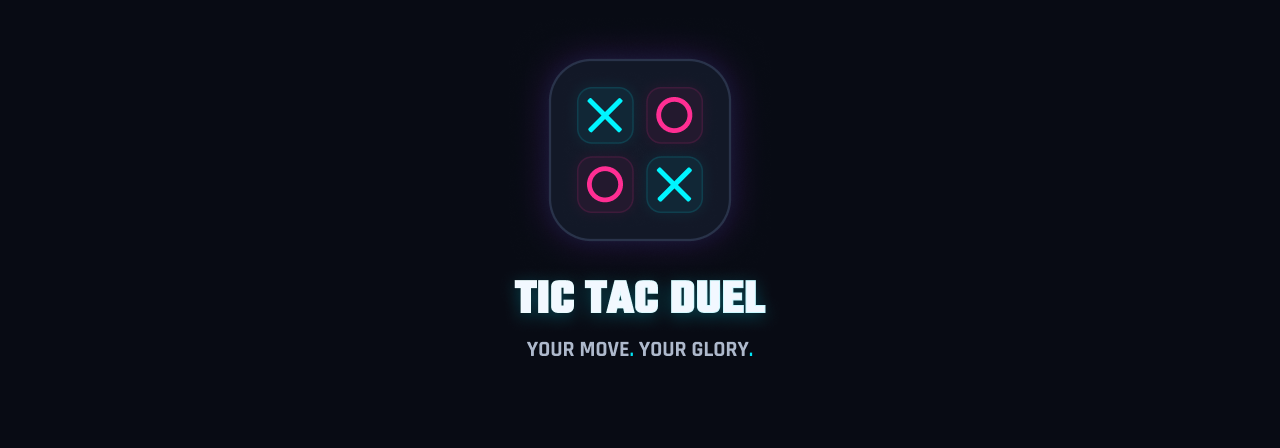
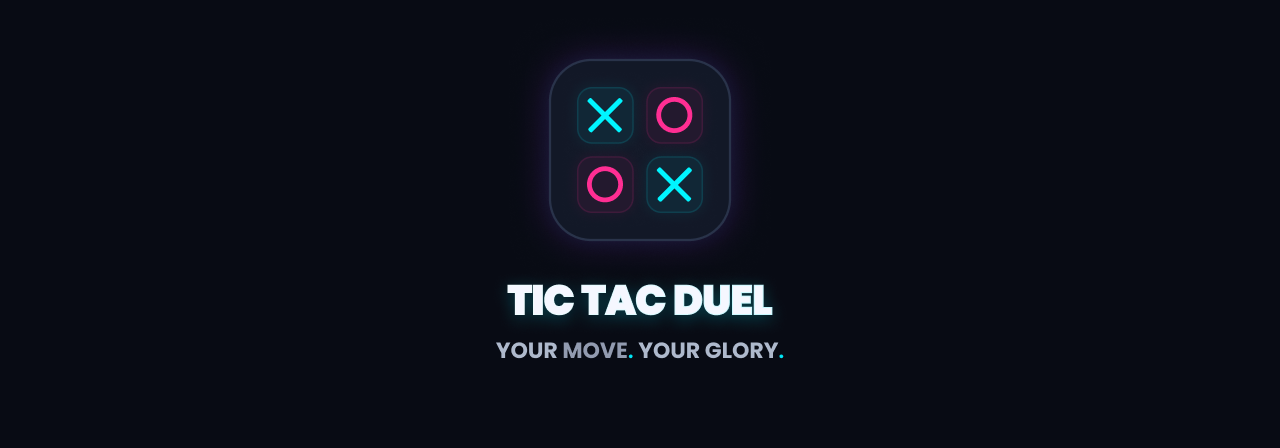
Enhance responsive layouts and update animations across home and splash screens
- Wrap text buttons and hint text in `Flexible` widgets across home actions, home screen, and join room hint widgets to improve responsive layout handling.
- Add entrance fade, rotation, and scale animations to `AppLogoWidget` in `HomeScreen` and `SplashScreen`.
- Standardize animation delay constants and update progress indicator styling in `SplashScreen`.
- Center-align app title and slogan texts in `HomeScreen`.
- Comment out automatic navigation delay in `SplashScreen`.

Changed region(s): [[0.375, 0.625, 0.625, 0.7188], [0.375, 0.75, 0.625, 0.8125]]

diff --git a/lib/features/home/home_screen.dart b/lib/features/home/home_screen.dart
@@ -16,17 +16,21 @@ class HomeScreen extends ConsumerWidget {
                 mainAxisAlignment: MainAxisAlignment.spaceBetween,
                 spacing: Dimens.twelve,
                 children: [
-                  NeonTextButtonWidget.icon(
-                    icon: Icons.settings_rounded,
-                    label: 'Settings',
-                    onPressed: navigation.pushSettings,
-                    isSmall: true,
+                  Flexible(
+                    child: NeonTextButtonWidget.icon(
+                      icon: Icons.settings_rounded,
+                      label: 'Settings',
+                      onPressed: navigation.pushSettings,
+                      isSmall: true,
+                    ),
                   ),
-                  NeonTextButtonWidget.icon(
-                    icon: Icons.help_outline_rounded,
-                    label: 'Help',
-                    onPressed: navigation.pushHelp,
-                    isSmall: true,
+                  Flexible(
+                    child: NeonTextButtonWidget.icon(
+                      icon: Icons.help_outline_rounded,
+                      label: 'Help',
+                      onPressed: navigation.pushHelp,
+                      isSmall: true,
+                    ),
                   ),
                 ],
               )
@@ -49,36 +53,49 @@ class HomeScreen extends ConsumerWidget {
           Column(
             spacing: Dimens.twentyTwo,
             children: [
-              const AppLogoWidget(),
+              const AppLogoWidget().animate()
+                  .fadeIn(duration: AnimationConstants.medium)
+                  .rotate(
+                begin: AnimationConstants.logoEntranceRotation,
+                end: AnimationConstants.logoRestingRotation,
+                duration: AnimationConstants.medium,
+                curve: AnimationConstants.entranceCurve,
+              )
+                  .scale(
+                begin: AnimationConstants.scaleBegin,
+                end: AnimationConstants.scaleEnd,
+                duration: AnimationConstants.medium,
+                curve: AnimationConstants.entranceCurve,
+              ),
               Column(
                 spacing: Dimens.eight,
                 children: [
-                  Text(GameConstants.appName, style: textTheme.headlineLarge)
+                  Text(GameConstants.appName, style: textTheme.headlineLarge,textAlign: TextAlign.center,)
                       .animate()
                       .fadeIn(
-                        delay: AnimationConstants.homeTitleDelay,
-                        duration: AnimationConstants.medium,
-                      )
+                    delay: AnimationConstants.homeTitleDelay,
+                    duration: AnimationConstants.medium,
+                  )
                       .slideY(
-                        begin: AnimationConstants.slideLarge,
-                        end: 0,
-                        delay: AnimationConstants.homeSloganDelay,
-                        duration: AnimationConstants.medium,
-                        curve: AnimationConstants.defaultCurve,
-                      ),
-                  Text(GameConstants.appSlogan, style: textTheme.labelSmall)
+                    begin: AnimationConstants.slideLarge,
+                    end: 0,
+                    delay: AnimationConstants.homeTitleDelay,
+                    duration: AnimationConstants.medium,
+                    curve: AnimationConstants.defaultCurve,
+                  ),
+                  Text(GameConstants.appSlogan, style: textTheme.labelSmall,textAlign: TextAlign.center)
                       .animate()
                       .fadeIn(
-                        delay: AnimationConstants.homeSloganDelay,
-                        duration: AnimationConstants.medium,
-                      )
+                    delay: AnimationConstants.homeSloganDelay,
+                    duration: AnimationConstants.medium,
+                  )
                       .slideY(
-                        begin: AnimationConstants.slideMedium,
-                        end: 0,
-                        delay: AnimationConstants.homeSloganDelay,
-                        duration: AnimationConstants.medium,
-                        curve: AnimationConstants.defaultCurve,
-                      ),
+                    begin: AnimationConstants.slideMedium,
+                    end: 0,
+                    delay: AnimationConstants.homeSloganDelay,
+                    duration: AnimationConstants.medium,
+                    curve: AnimationConstants.defaultCurve,
+                  ),
                 ],
               ),
             ],

diff --git a/lib/features/home/splash_screen.dart b/lib/features/home/splash_screen.dart
@@ -38,7 +38,20 @@ class _SplashScreenState extends State<SplashScreen> {
           children: [
             // Animated app logo.
             const AppLogoWidget()
-                ,
+                .animate()
+                .fadeIn(duration: AnimationConstants.medium)
+                .rotate(
+                  begin: AnimationConstants.logoEntranceRotation,
+                  end: AnimationConstants.logoRestingRotation,
+                  duration: AnimationConstants.medium,
+                  curve: AnimationConstants.entranceCurve,
+                )
+                .scale(
+                  begin: AnimationConstants.scaleBegin,
+                  end: AnimationConstants.scaleEnd,
+                  duration: AnimationConstants.medium,
+                  curve: AnimationConstants.entranceCurve,
+                ),
 
             // App name and tagline.
             Column(
@@ -51,13 +64,13 @@ class _SplashScreenState extends State<SplashScreen> {
                     )
                     .animate()
                     .fadeIn(
-                      delay: const Duration(milliseconds: 250),
+                      delay: AnimationConstants.homeTitleDelay,
                       duration: AnimationConstants.medium,
                     )
                     .slideY(
                       begin: AnimationConstants.slideLarge,
                       end: 0,
-                      delay: const Duration(milliseconds: 250),
+                      delay: AnimationConstants.homeTitleDelay,
                       duration: AnimationConstants.medium,
                       curve: AnimationConstants.defaultCurve,
                     ),
@@ -69,13 +82,13 @@ class _SplashScreenState extends State<SplashScreen> {
                     )
                     .animate()
                     .fadeIn(
-                      delay: const Duration(milliseconds: 400),
+                      delay: AnimationConstants.homeSloganDelay,
                       duration: AnimationConstants.medium,
                     )
                     .slideY(
                       begin: AnimationConstants.slideMedium,
                       end: 0,
-                      delay: const Duration(milliseconds: 400),
+                      delay: AnimationConstants.homeSloganDelay,
                       duration: AnimationConstants.medium,
                       curve: AnimationConstants.defaultCurve,
                     ),
@@ -83,10 +96,19 @@ class _SplashScreenState extends State<SplashScreen> {
             ),
 
             // Subtle loading indicator.
-            const _SplashLoadingIndicator().animate().fadeIn(
-              delay: const Duration(milliseconds: 500),
-              duration: AnimationConstants.medium,
-            ),
+            const _SplashLoadingIndicator()
+                .animate()
+                .fadeIn(
+                  delay: AnimationConstants.staggerLong,
+                  duration: AnimationConstants.medium,
+                )
+                .slideY(
+                  begin: AnimationConstants.slideSmall,
+                  end: 0,
+                  delay: AnimationConstants.staggerLong,
+                  duration: AnimationConstants.medium,
+                  curve: AnimationConstants.defaultCurve,
+                ),
           ],
         ),
       ),
@@ -103,13 +125,13 @@ class _SplashLoadingIndicator extends StatelessWidget {
       mainAxisSize: MainAxisSize.min,
       spacing: Dimens.twelve,
       children: [
-        SizedBox(
-          width: 100,
+        const SizedBox(
+          width: Dimens.oneHundred,
           child: ClipRRect(
-            borderRadius: BorderRadius.circular(20),
-            child: const LinearProgressIndicator(
-              minHeight: 3,
-              backgroundColor: Color(0x1FFFFFFF),
+            borderRadius: Dimens.radius20,
+            child: LinearProgressIndicator(
+              minHeight: Dimens.four,
+              backgroundColor: AppColors.surface,
               valueColor: AlwaysStoppedAnimation<Color>(AppColors.neonCyan),
             ),
           ),
@@ -117,12 +139,7 @@ class _SplashLoadingIndicator extends StatelessWidget {
         Text(
           'PREPARING YOUR DUEL',
           textAlign: TextAlign.center,
-          style: TextStyle(
-            color: AppColors.textSecondary.withValues(alpha: 0.75),
-            fontSize: 9,
-            fontWeight: FontWeight.w600,
-            letterSpacing: 2,
-          ),
+          style: Theme.of(context).textTheme.labelMedium,
         ),
       ],
     );

diff --git a/lib/features/home/widgets/home_actions_widget.dart b/lib/features/home/widgets/home_actions_widget.dart
@@ -38,22 +38,26 @@ class HomeActionsWidget extends ConsumerWidget {
           spacing: Dimens.twelve,
           mainAxisAlignment: MainAxisAlignment.spaceBetween,
           children: [
-            NeonTextButtonWidget.icon(
-              icon: Icons.add_rounded,
-              label: 'Create Room',
-              isSmall: true,
-              onPressed: () => _checkInternetConnection(
-                networkService,
-                navigation.pushCreateRoom,
+            Flexible(
+              child: NeonTextButtonWidget.icon(
+                icon: Icons.add_rounded,
+                label: 'Create Room',
+                isSmall: true,
+                onPressed: () => _checkInternetConnection(
+                  networkService,
+                  navigation.pushCreateRoom,
+                ),
               ),
             ),
-            NeonTextButtonWidget.icon(
-              icon: Icons.login_rounded,
-              label: 'Join Room',
-              isSmall: true,
-              onPressed: () => _checkInternetConnection(
-                networkService,
-                navigation.pushJoinRoom,
+            Flexible(
+              child: NeonTextButtonWidget.icon(
+                icon: Icons.login_rounded,
+                label: 'Join Room',
+                isSmall: true,
+                onPressed: () => _checkInternetConnection(
+                  networkService,
+                  navigation.pushJoinRoom,
+                ),
               ),
             ),
           ],

diff --git a/lib/features/room/join/widgets/join_room_hint_widget.dart b/lib/features/room/join/widgets/join_room_hint_widget.dart
@@ -9,6 +9,7 @@ class JoinRoomHintWidget extends StatelessWidget {
 
     return Row(
       mainAxisAlignment: MainAxisAlignment.center,
+      crossAxisAlignment: CrossAxisAlignment.start,
       spacing: Dimens.eight,
       children: [
         const Icon(
@@ -16,9 +17,13 @@ class JoinRoomHintWidget extends StatelessWidget {
           color: AppColors.textSecondary,
           size: Dimens.iconSm,
         ),
-        Text(
-          'Use the 6–8 character code from your friend',
-          style: textTheme.labelSmall,
+        Flexible(
+          child: Text(
+            'Use the 6–8 character code from your friend',
+            textAlign: TextAlign.center,
+            softWrap: true,
+            style: textTheme.labelSmall,
+          ),
         ),
       ],
     );
